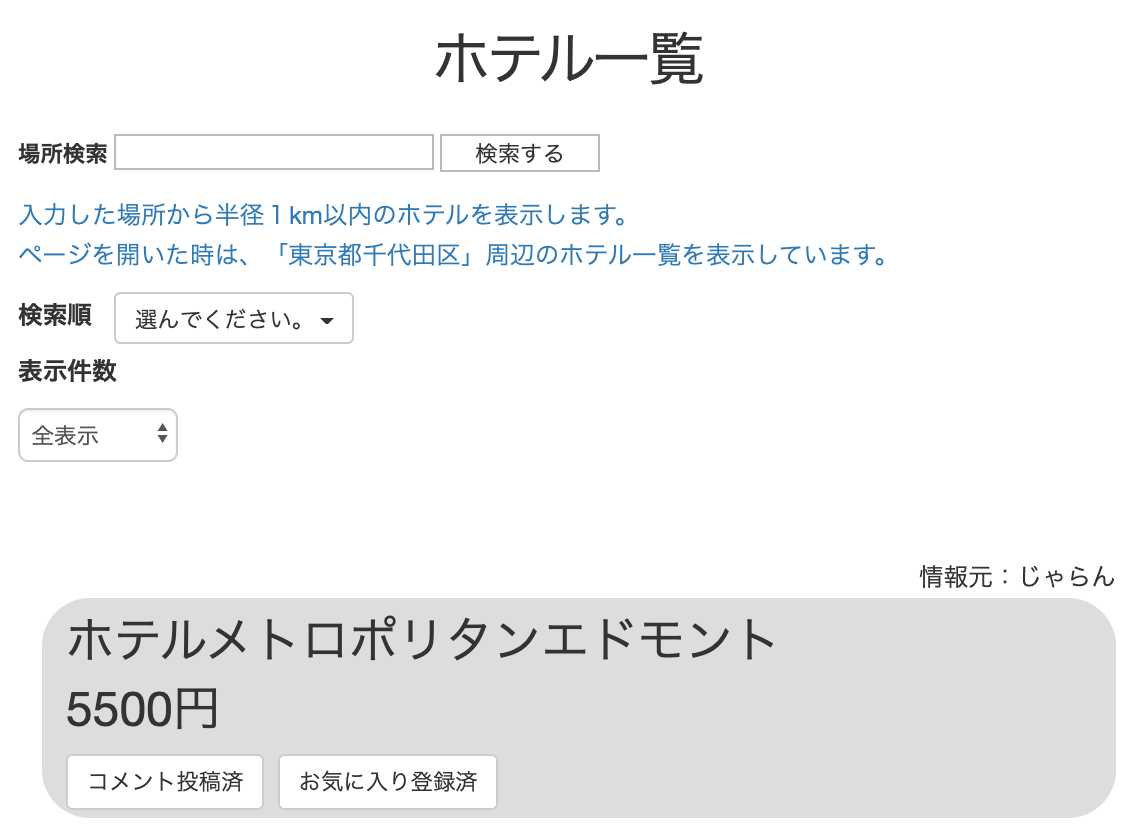
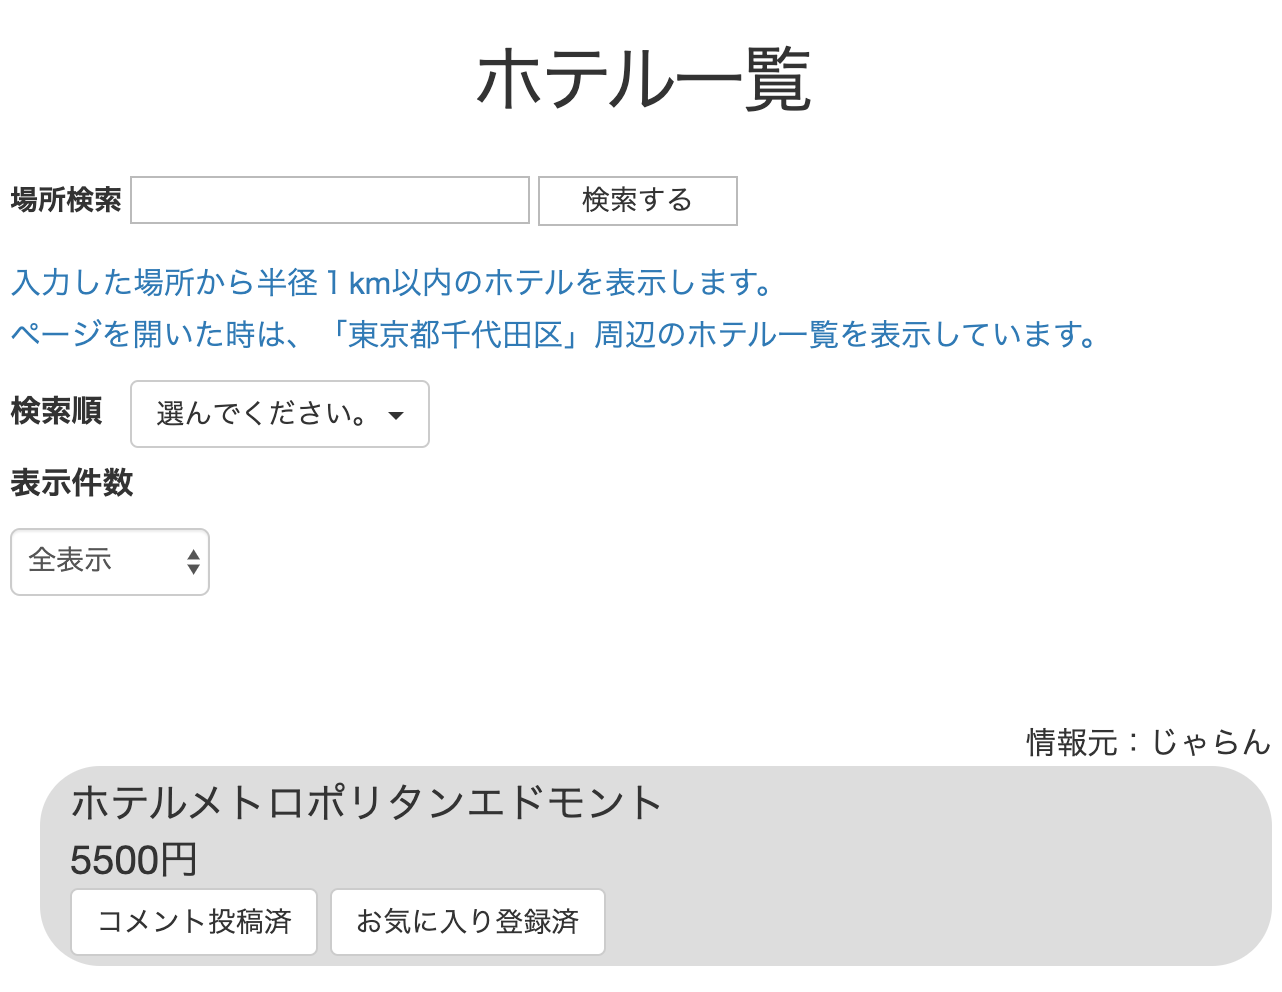
correct font-size and top layout

diff --git a/app/assets/stylesheets/custom.scss b/app/assets/stylesheets/custom.scss
@@ -267,10 +267,6 @@ td{
   }
 }
 
-.hotel_sp_layout{
-  display:none;
-}
-
 #hotel_index{
   margin-bottom:30px;
 }
@@ -474,7 +470,7 @@ td{
     li{
       margin-top:25px;
       margin-left:-25px;
-      font-size:30px;
+      font-size:20px;
       background-color:#DDDDDD;
       padding:5px 0 5px 15px;
       border-radius:30px;
@@ -514,7 +510,7 @@ td{
     li{
       margin-top:5px;
       margin-left:-25px;
-      font-size:25px;
+      font-size:20px;
       background-color:#DDDDDD;
       padding:15px 0 15px 15px;
       border-radius:30px;
@@ -522,7 +518,7 @@ td{
   }
   
   .hotel_show_sp_index,.hotel_edit_sp_index{
-    font-size:30px;
+    font-size:20px;
     list-style-type:none;
     text-align:center;
     display:block;

diff --git a/app/models/post.rb b/app/models/post.rb
@@ -13,7 +13,7 @@ class Post < ApplicationRecord
   def comment_length
     comment_for_validation = comment.gsub(/\r\n/,"")
     if comment_for_validation.length > 250
-      errors.add(:comment, "は250文字以内で入力してください。")
+      errors.add(:comment, "は250文字以内で入力してください")
     end
   end
 end

diff --git a/app/models/favorite.rb b/app/models/favorite.rb
@@ -7,7 +7,7 @@ class Favorite < ApplicationRecord
   def memo_length
     memo_for_validation = memo.gsub(/\r\n/,"")
     if memo_for_validation.length > 250
-      errors.add(:memo, "は250文字以内で入力してください。")
+      errors.add(:memo, "は250文字以内で入力してください")
     end
   end
 end
